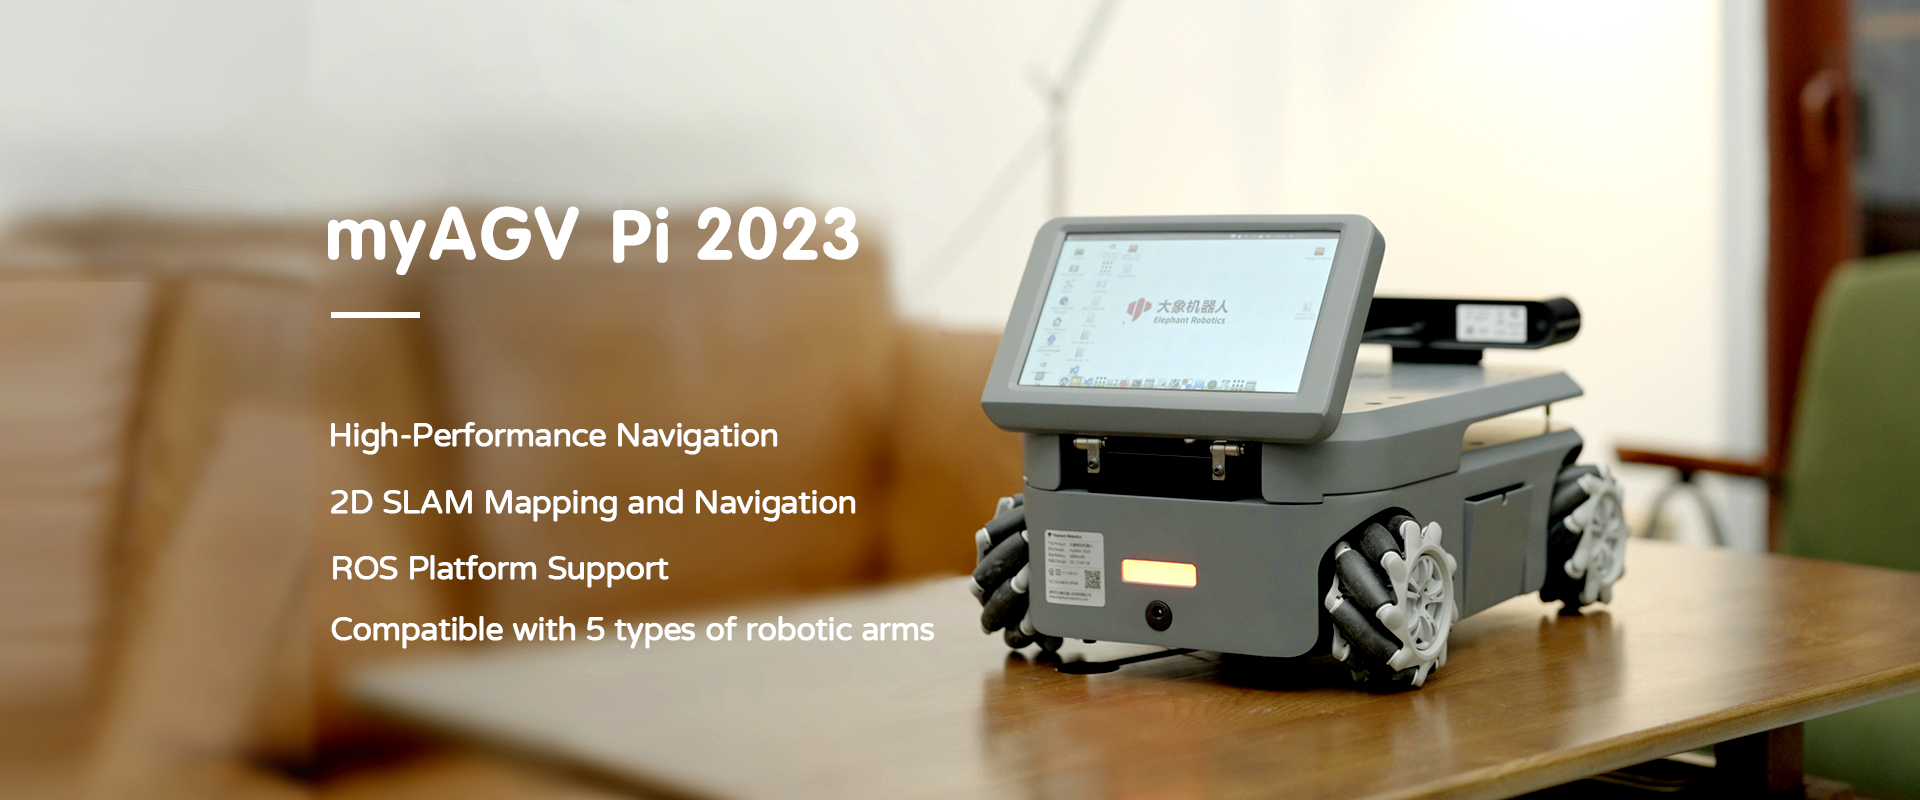
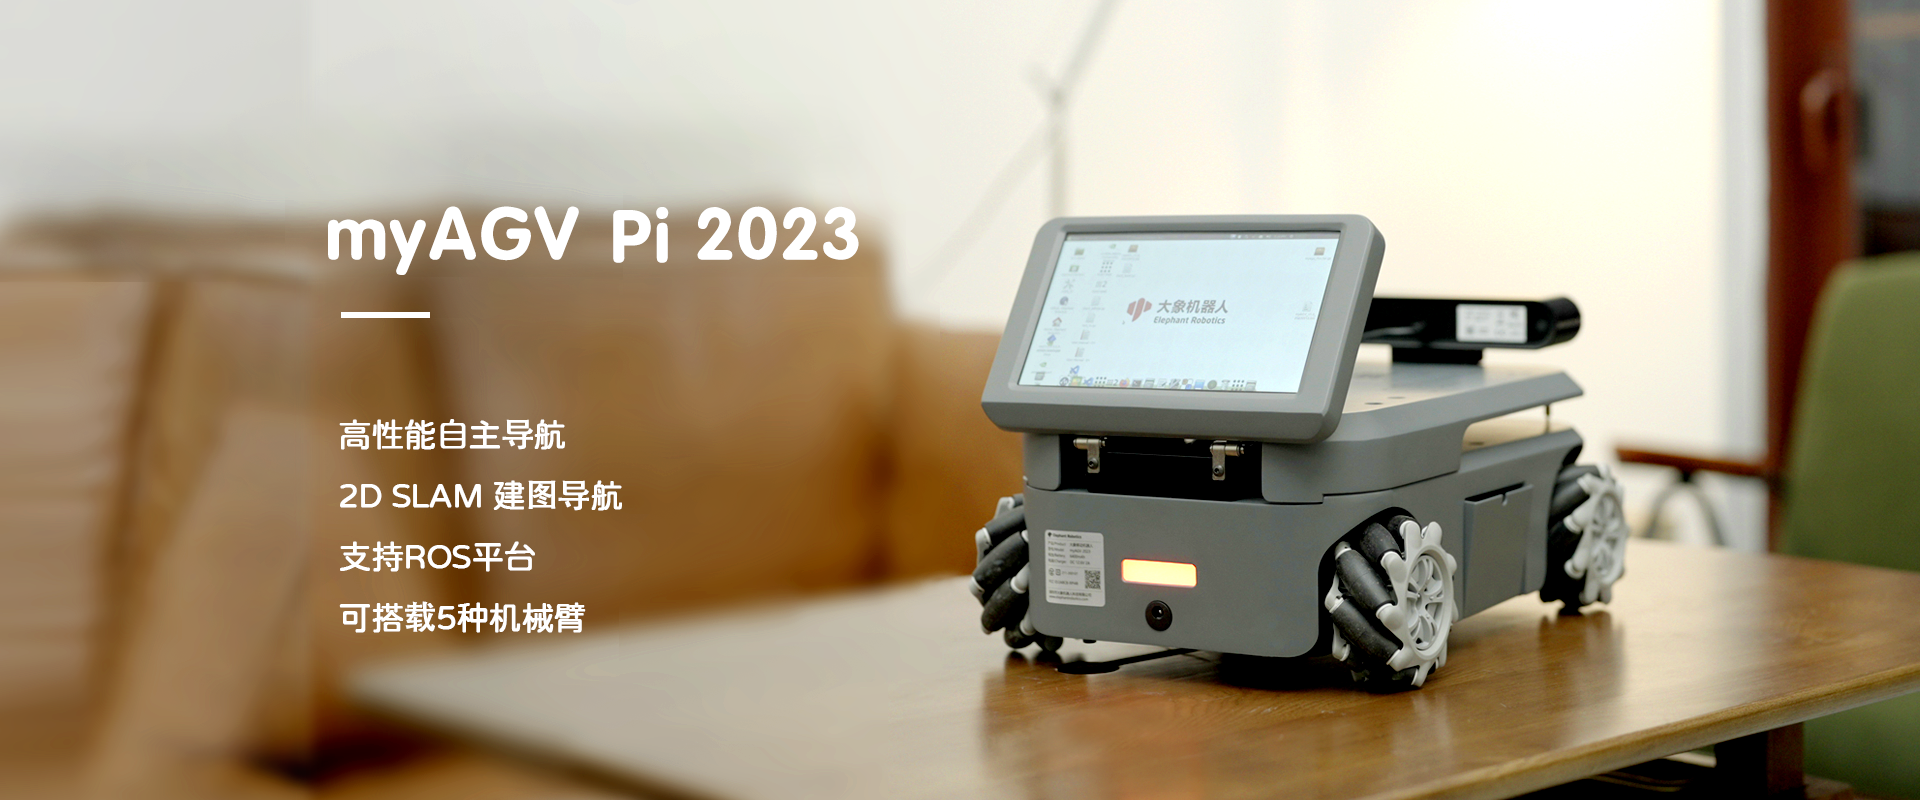
补充Pi中英文缺失内容

Changed region(s): [[0.1562, 0.5938, 0.5, 0.8125], [0.1562, 0.5312, 0.4062, 0.5625]]

diff --git a/MYAGV_PI_2023_EN/8-FilesDownload/8.5-PublicityMaterial.md b/MYAGV_PI_2023_EN/8-FilesDownload/8.5-PublicityMaterial.md
@@ -1,16 +1,33 @@
-# Software Download
+# Publicity Material
 
-**myStudio**
+## Product Catalogue
 
-myStudio is our own software. It is a tool for firmware burning or modification of the existing robotic launched by our company.
+|     Robot      |                                                     Brochure                                                     |
+| :------------: | :--------------------------------------------------------------------------------------------------------------: |
+| myAGV Pi | [download](https://static.elephantrobotics.com/wp-content/uploads/2023/11/myAGV-Pi-2023-%E7%94%BB%E5%86%8C1.pdf) |
 
-**github download：[GitHub - elephantrobotics/myStudio: A comprehensive software for mycobot. Provides firmware burning, documentation, tutorials, etc](https://github.com/elephantrobotics/myStudio)**
+## Product Video
 
-**Website：[Software Download - Elephant Robotics](https://www.elephantrobotics.com/download/)**
+### Promotional Video
 
-# Souce Code Download
+<video id="my-video" class="video-js" controls preload="auto" width="100%"
+poster="" data-setup='{"aspectRatio":"16:9"}'>
 
-**myAGV PI 2023 ROS1 Source Code：[GitHub - elephantrobotics/myagv_ros: myAGV ROS Basic application](https://github.com/elephantrobotics/myagv_ros/tree/myagv_ros_2023Pi)**
+<source src="https://static.elephantrobotics.com/wp-content/uploads/2023/10/1030-myAGV%E4%BA%A7%E5%93%81-%E4%B8%AD%E6%96%87.mp4"></video>
 
-**pymyCobot：[GitHub - elephantrobotics/pymycobot: This is a python API for mycobot serial communication.](https://github.com/elephantrobotics/pymycobot)**
+### Unboxing Video
 
+<video id="my-video" class="video-js" controls preload="auto" width="100%"
+poster="" data-setup='{"aspectRatio":"16:9"}'>
+
+<source src="https://static.elephantrobotics.com/wp-content/uploads/2023/12/myAGV-2023%E5%BC%80%E7%AE%B1_cn.mp4"></video>
+
+## Product Pictures
+
+![产品图片1](../resources/8-FilesDownload/8.5/myAGV2023.png)
+![产品图片2](../resources/8-FilesDownload/8.5/myAGV202303.jpg)
+![产品图片3](../resources/8-FilesDownload/8.5/myAGV202308.png)
+
+---
+
+[← Previous Page](8.4-SystemInformation/8.4.2-Image_Burning.md) | [Next Chapter →](../9-AboutUs/README.md)

diff --git a/MYAGV_PI_2023_EN/7-ExamplesRobotsUsing/7.2-CommunicationsControl.md b/MYAGV_PI_2023_EN/7-ExamplesRobotsUsing/7.2-CommunicationsControl.md
@@ -1,0 +1,71 @@
+## myAGV with robot arm communication control
+
+## Pi version
+
+### WIFI communication control
+
+**Note:** Only myCobot 280 Pi, myPalletizer 260 Pi, mechArm 270 Pi are supported.
+
+1. Configure the robotic arm
+
+**Step 1** Firstly, connect the robot arm to the display and switch on the machine, click the WIFI icon to connect to WIFI and enter the WIFI password, click Connection to connect successfully.
+
+**Step 2** Click the desktop pymycobot file, click the demo file, copy the Server.py file to the desktop.
+
+**Step 3** Open command terminal
+
+![开启小车launch终端](../resources/7-ExamplesRobotsUsing/复合机器人/server2.jpg)
+
+**Step 4** Enter the following code to run the script:
+
+```python
+sudo python3 Server.py
+```
+
+**Step 5** Run successfully as shown:
+
+![开启小车launch终端](../resources/7-ExamplesRobotsUsing/复合机器人/server3.jpg)
+
+2. myAGV communication control case
+
+The trolley is normally switched on and connected to the display and the keyboard and mouse, the above steps ensure that the connection is good, then you can use the trolley to control the robotic arm.
+
+**Note: The robot arm needs to be on the same network segment as the cart, i.e. under the same WIFI.**
+
+- myCobot 280、mechArm 270：
+
+```python
+from pymycobot import MyCobotSocket
+# Port 9000 is used by default 
+# where "192.168.10.22" is the robot arm IP, please enter your robot arm IP yourself
+mc = MyCobotSocket("192.168.10.22",9000)
+mc.connect()
+
+# The arm can be controlled when it is properly connected.
+mc.send_angles([0,0,0,0,0,0],20)
+res = mc.get_angles()
+print(res)
+
+...
+```
+
+- myPalletizer 260：
+
+```python
+from pymycobot import MyPalletizerSocket
+# Port 9000 is used by default 
+# Where "192.168.10.22" is the IP of the robot arm, please input your robot arm IP by yourself.
+mc = MyPalletizerSocket("192.168.10.22"，9000)
+mc.connect()
+
+# 连接正常就可以对机械臂进行控制操作
+mc.send_angles([0,0,0,0],20)
+res = mc.get_angles()
+print(res)
+
+...
+```
+
+---
+
+[← 上一页](7.1-InstallationInstructions.md) | [下一章 →](../8-FilesDownload/README.md)

diff --git a/MYAGV_PI_2023_EN/2-ProductFeature/README.md b/MYAGV_PI_2023_EN/2-ProductFeature/README.md
@@ -1,5 +1,23 @@
 # Product Feature
 
+## Introduction
+
+<img src="../resources/2-ProductFeature/2.1/PI-main.png " width="800" height="auto" />
+
+myAGV PI 2023 adopts Raspberry Pi 4B core motherboard, with Ubuntu Mate 20.04 operating system customised by Elephant Robotics for robots, which is smooth and easy to use. myAGV 2023 is equipped with 2D mapping and navigation, 3D mapping and navigation, graphical programming, visualisation software, ROS emulation, joystick and keyboard control and other functions, which is the first choice for scientific research and education and individual creators. It is the first choice for research and education, personal creators.
+
+- **Scientific Research in Education**
+
+    - The myAGV 2023 series is equipped with high-performance planetary DC brushless motors, giving it more kinetic energy for more and more complex application scenarios, as well as dramatically improving the accuracy of auto-guidance; from laboratory research to classroom teaching, this chassis offers a full range of support to help you explore the unknown, and make research and education more flexible.
+
+- **Creative Development**
+
+    - The myAGV 2023 series has been upgraded on the basis of myAGV to achieve perfect backward compatibility, retaining all the functions of myAGV, but also adding a number of new features, such as 3D navigation, visualisation software, graphical programming, etc., as well as adding a number of optional accessories, which is even easier to use, and meets the needs of different users when carrying out the development of personalised scenarios.
+
+- **Business Exploration**
+
+    - myAGV 2023 series, can be equipped with our 5 kinds of robotic arm, myAGV 2023 + robotic arm = infinite possibilities, automatic navigation + machine vision + end-effector can simulate various commercial scenarios application, can meet the application requirements of complex projects. Support composite robot set, simulate warehouse logistics sorting scene, can be used for commercial pre-study and composite robot scene display, etc.
+
 ## Chapter Summary
 
 [2.1-Machine specification](2.1-MachineSpecification.md)

diff --git a/MYAGV_PI_2023_CN/2-ProductFeature/README.md b/MYAGV_PI_2023_CN/2-ProductFeature/README.md
@@ -1,5 +1,23 @@
 # 产品特性
 
+## 简介
+
+<img src="../resources/2-ProductFeature/2.1/PI-main.png " width="800" height="auto" />
+
+myAGV PI 2023采用树莓派4B核心主板，搭配大象机器人专为机器人定制的Ubuntu Mate 20.04 操作系统，流畅易用；myAGV 2023具备2D建图与导航、3D建图与导航、图形化编程、可视化软件、ROS仿真、手柄键盘控制等多钟功能，是科研教育、个人创客的首选。
+
+- **教育科研**
+
+    - myAGV 2023系列搭载了高性能的行星直流无刷电机，使它拥有了更强的动能，能够进行更多更复杂的应用场景，同时也大幅提升了自动导航的精度；从实验室研究到教室教学，这款底盘提供了全方位的支持，帮助您探索未知，让科研和教育更加灵活。
+
+- **创意开发**
+
+    - myAGV 2023系列在基于myAGV的基础上升级，做到了完美的向下兼容，保留了所有myAGV的功能，并且还新增了如3D导航、可视化软件、图形化编程等多项功能，以及还增加了多钟可选配件，更加的易于使用，在进行个性化场景开发时可以满足不同用户的需求。
+
+- **商业探索**
+
+    - myAGV 2023系列，可搭载我司5种机械臂，myAGV 2023 + 机械臂 = 无限可能，自动导航+机器视觉+末端执行器能够模拟各种商业场景应用，可以满足复杂项目的应用需求。支持复合机器人套装，模拟仓储物流分拣场景，可用于商业预研和复合机器人场景展示等。
+
 ## 章节摘要
 
 [2.1-机器规格参数](2.1-MachineSpecification.md)  

diff --git a/MYAGV_PI_2023_EN/7-ExamplesRobotsUsing/7.1-InstallationInstructions.md b/MYAGV_PI_2023_EN/7-ExamplesRobotsUsing/7.1-InstallationInstructions.md
@@ -1,0 +1,31 @@
+# 1 Installation Instructions
+
+## 1.1 Installation of robotic arm
+
+Firstly the arm needs to be mounted to the myAGV. The arm can be mounted in the upper part of the myAGV using LEGO keys or screws, either at the front or at the back depending on your needs.
+
+<img src="../resources/7-ExamplesRobotsUsing/复合机器人/myAGV2023.png" alt="开启小车launch终端" style="zoom: 25%;" />
+
+## 1.2 Connecting the robot arm
+
+Using the DC power cable to connect to the arm power supply connector and the other end to connect to the arm power connector, the trolley can supply power to the arm (12V 5A).
+
+<img src="../resources/7-ExamplesRobotsUsing/复合机器人/myAGV2023API.jpg" alt="myAGV" style="zoom:25%;" />
+
+Example: myCobot280 Pi, other Pi robotic arms are the same.  
+
+1. Remove the four m4\*8 socket head cap screws with a hexagonal spanner.
+
+![Enabling trolley launch terminal](../resources/7-ExamplesRobotsUsing/复合机器人/A1.png)
+
+2. Mount the myCobot 280Pi arm in the correct direction corresponding to the X-axis and screw on four m4\*8 to fix the 280Pi.
+
+![[Enabling trolley launch terminal]](../resources/7-ExamplesRobotsUsing/复合机器人/A2.png)
+
+![[Enabling trolley launch terminal]](../resources/7-ExamplesRobotsUsing/复合机器人/A3.png)
+
+![[Enabling trolley launch terminal]](../resources/7-ExamplesRobotsUsing/复合机器人/A4.png)
+
+---
+
+[← Previous Page](README.md) | [Next Page →](7.2-CommunicationsControl.md)

diff --git a/MYAGV_PI_2023_EN/9-AboutUs/9.2_contact.md b/MYAGV_PI_2023_EN/9-AboutUs/9.2_contact.md
@@ -1,6 +1,30 @@
 ### Contact Us
 
-If you have any other problems, contact us via the ways below. + Email: We will give a reply within 1-2 business days; **Email + WeChat**: We provide one-to-one service only for those users who have purchased myAGV via WeChat.
+> Our working hours are China working days, 10am to 6pm Beijing time.
+
+If you have any other questions, please contact us at.   
+**Email** : support@elephantrobotics.com
+
+If you are interested in purchasing or have any questions about the parameters, please send an email to this email address.  
+[E-mail](sales@elephantrobotics.com) :
+
+<pre>
+<code class="copyable">sales@elephantrobotics.com</code>
+</pre>
+
+If the listed issues do not help you and you have more aftermarket questions, please send an email to this mailbox.
+[E-mail](support@elephantrobotics.com) :
+
+<pre>
+<code class="copyable">support@elephantrobotics.com</code>
+</pre>
+
+We will respond within 1-2 business days;
+
+**WeChat**:  
+We only provide one-on-one service to those who purchase myCobot through WeChat.
+
+<img src="../resources/9-AboutUs/9.1/WeChat-Code.jpg" alt="WeChat-Code" width="200" height=“auto” />
 
 
 --- 

diff --git a/MYAGV_PI_2023_EN/8-FilesDownload/8.3-softwareSource.md b/MYAGV_PI_2023_EN/8-FilesDownload/8.3-softwareSource.md
@@ -1,12 +1,27 @@
 # Software Download
 
-**myStudio**
+## myStudio
 
 myStudio is our own software. It is a tool for firmware burning or modification of the existing robotic launched by our company.
 
 **github download：[GitHub - elephantrobotics/myStudio: A comprehensive software for mycobot. Provides firmware burning, documentation, tutorials, etc](https://github.com/elephantrobotics/myStudio)**
 
 **Website：[Software Download - Elephant Robotics](https://www.elephantrobotics.com/download/)**
+
+## myBlockly
+
+From the user's point of view, **myBlockly** is an easy-to-use visualisation tool for generating code. From the developer's point of view, **myBlockly** is a text box containing the code entered by the user.
+
+**Download Address: [Official Website Address](https://www.elephantrobotics.com/download/)**
+
+## myAGV_UI
+
+**github Download: [Github](https://github.com/elephantrobotics/AGV_UI.git)**
+
+## pycharm
+
+- **Python** Python Official Download Address: https://www.python.org/downloads/
+- [Python Download and Installation Tutorial](https://python.land/installing-python#Install_Python_on_Windows) for reference only
 
 # Souce Code Download
 

diff --git a/MYAGV_PI_2023_EN/8-FilesDownload/8.2-productBrochure.md b/MYAGV_PI_2023_EN/8-FilesDownload/8.2-productBrochure.md
@@ -1,0 +1,17 @@
+# Product Drawings
+
+## 2D Draw
+
+|    Machine    |                                            2D Draw                                             |
+| :--------: | :--------------------------------------------------------------------------------------------: |
+| myAGV 2023 | [Download](https://download.elephantrobotics.com/Product_3d_files/myAGV2023/AGV2023_2d_240401.pdf) |
+
+## 3D Draw
+
+|    Machine    |                                          3D Model File                                           |
+| :--------: | :--------------------------------------------------------------------------------------------: |
+| myAGV 2023 | [Download](https://download.elephantrobotics.com/Product_3d_files/myAGV2023/AGV2023_3d_240328.stp) |
+
+---
+
+[← Previous Page](8.1-GitbookDownload.md) | [Next Page →](8.3-softwareSource.md)

diff --git a/MYAGV_PI_2023_EN/7-ExamplesRobotsUsing/README.md b/MYAGV_PI_2023_EN/7-ExamplesRobotsUsing/README.md
@@ -2,15 +2,20 @@
 
 The typical use case scenarios for myagv often involve pairing with robotic arms to form compound robots, enabling mobile grasping, expanding workspace, and accomplishing a wider range of tasks. Below are the robotic arms supported by myagv.
 
-[myCobot 280 M5/Pi]()
+**myCobot 280 M5/Pi**
 
-[myPalletizer 260 M5/Pi]()
+**myPalletizer 260 M5/Pi**
 
-[mechArm 270 M5/Pi]()
+**mechArm 270 M5/Pi**
 
-[myarm 300 pi]() 
+**myarm 300 pi**
 
-[ultraArm P340]()
+**ultraArm P340**
+
+**跳转到各部分：**
+
+- [Installation Instructions](7.1-InstallationInstructions.md)
+- [Communications Control](7.2-CommunicationsControl.md)
 
 ----
 [← Previous Chapter](../6-SDKDevelopment/README.md) | [Next Chapter →](../8-FilesDownload/README.md)

diff --git a/MYAGV_PI_2023_CN/8-FilesDownload/8.5-PublicityMaterial.md b/MYAGV_PI_2023_CN/8-FilesDownload/8.5-PublicityMaterial.md
@@ -4,7 +4,7 @@
 
 |     Robot      |                                                     Brochure                                                     |
 | :------------: | :--------------------------------------------------------------------------------------------------------------: |
-| myCobot 320 M5 | [download](https://static.elephantrobotics.com/wp-content/uploads/2023/11/myAGV-Pi-2023-%E7%94%BB%E5%86%8C1.pdf) |
+| myAGV Pi | [download](https://static.elephantrobotics.com/wp-content/uploads/2023/11/myAGV-Pi-2023-%E7%94%BB%E5%86%8C1.pdf) |
 
 ## 产品视频
 

diff --git a/MYAGV_PI_2023_EN/8-FilesDownload/8.4-SystemInformation/README.md b/MYAGV_PI_2023_EN/8-FilesDownload/8.4-SystemInformation/README.md
@@ -9,5 +9,10 @@ As a kind of copy of file, mirroring can help us solve many problems. If you are
 1. When the system or the robot is required to be started again;
 2. When the original mirroring file is destroyed.
 
+**Skip to sections:**
+
+- [System Image](8.4.1-System_Image.md)
+- [Mirror Burning](8.4.2-Image_Burning.md)
+
 ---
 [← Previous Page](../8.3-softwareSource.md) | [Next Section →](8.4-SystemInformation/README.md)

diff --git a/MYAGV_PI_2023_EN/3-UserNotes/3.4-FAQs.md b/MYAGV_PI_2023_EN/3-UserNotes/3.4-FAQs.md
@@ -1,6 +1,18 @@
 # FAQs
 
 
+**Q：为什么开机按钮不亮？**
+
+- A: 
+
+**Q：为什么HDMI屏幕不亮？**
+
+- A: 
+
+**Q：为什么我的激光雷达启动失败？**
+
+- A: 
+
 ---
 [← Previous Page](README.md#chapter-summary) | [Next Page →](../4-FirstInstallAndUse/README.md)
 
